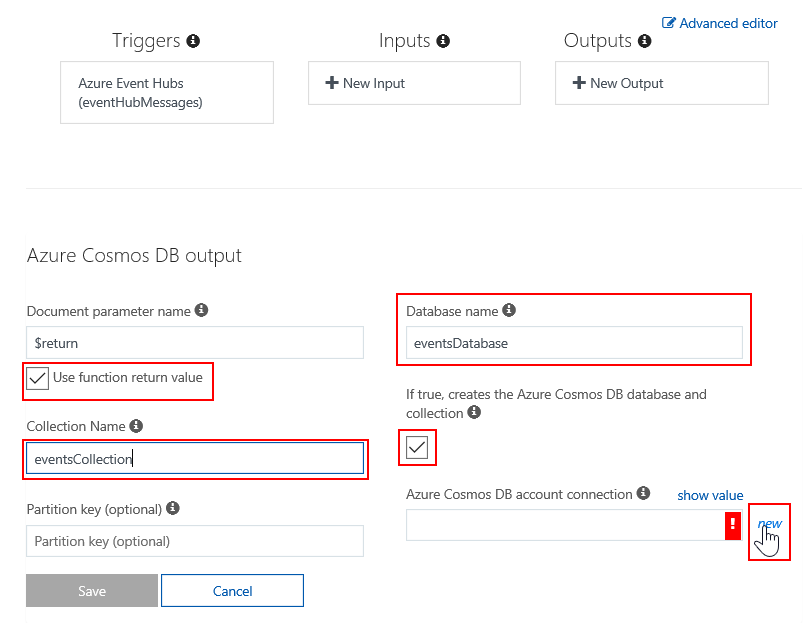
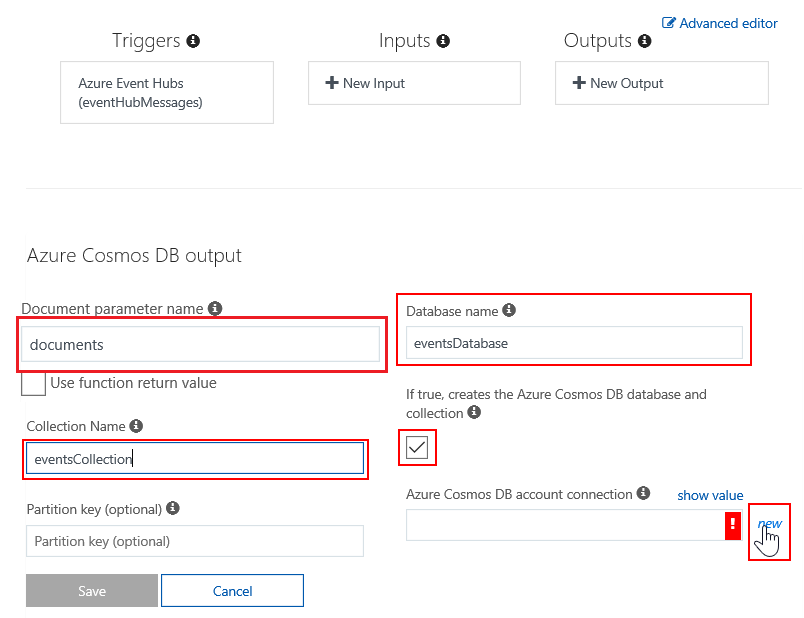
fixed csharp, updated jscript and updated pictures to be consistent with csharp code

diff --git a/4-Functions_Lab/readme.md b/4-Functions_Lab/readme.md
@@ -147,7 +147,7 @@ Now that we have an event hub let's create an instance of CosmosDB where we can 
 
     ![CosmosDB output](images/function_cosmosdb_output.png "CosmosDB Output")
 
-1. Select the "Use function return value" checkbox. Enter a database name and collection name to use and then check the create database and collection check box then click the new button next to the Cosmos DB account connection
+1. Enter a value Document parameter name, this is the object that will be posted to Cosmos DB. Enter a database name and collection name to use and then check the create database and collection check box then click the new button next to the Cosmos DB account connection
 
     ![CosmosDB output](images/function_cosmosdb_settings.png "CosmosDB Output")
 
@@ -164,35 +164,36 @@ Now that we have an event hub let's create an instance of CosmosDB where we can 
 1. Below is the code we will use to insert the events into Cosmos DB
 
     ```javascript
-        module.exports = function (context, eventHubMessages) {
-            context.log(`JavaScript eventhub trigger function called for message array ${JSON.stringify(eventHubMessages)}`);
-            var messages = [];
+    module.exports = function (context, eventHubMessages) {
+        context.log(`JavaScript eventhub trigger function called for message array ${JSON.stringify(eventHubMessages)}`);
+        var messages = [];
 
-            eventHubMessages.forEach(message => {
-                context.log(`Processed message ${message.description}`);
-                messages.push(message);
-            });
+        eventHubMessages.forEach(message => {
+            context.log(`Processed message ${message.description}`);
+            messages.push(message);
+        });
 
-            context.done(null, messages);
-        };
+        context.bindings.documents = messages;
+        context.done();
+    };
     ```
 
     ```csharp
-        #r "Newtonsoft.Json"
+    #r "Newtonsoft.Json"
 
-        using System;
-        using Newtonsoft.Json.Linq;
-        
-        public static void Run(string[] eventHubMessages, ICollector<dynamic> documents, TraceWriter log)
-        {
-            log.Info($"C# Event Hub trigger function processed a message: {eventHubMessages}");
-        
-            foreach (var eventHubMessage in eventHubMessages){
-                log.Info($"Processed message: {eventHubMessage}");
-                dynamic doc = JObject.Parse(eventHubMessage);
-                documents.Add(doc);
-            }
+    using System;
+    using Newtonsoft.Json.Linq;
+
+    public static async Task Run(string[] eventHubMessages, IAsyncCollector<dynamic> documents, TraceWriter log)
+    {
+        log.Info($"C# Event Hub trigger function processed a message: {eventHubMessages}");
+
+        foreach (var eventHubMessage in eventHubMessages){
+            log.Info($"Processed message: {eventHubMessage}");
+            dynamic doc = JObject.Parse(eventHubMessage);
+            await documents.AddAsync(doc);
         }
+    }
     ```
 
 1. Now we can start using it. Click on the function app name
@@ -290,7 +291,7 @@ Now that we have an event hub let's create an instance of CosmosDB where we can 
 
     ![CosmosDB output](images/function_eventgrid_cosmosdb_output.png "CosmosDB Output")
 
-1. Select the "Use function return value" checkbox. Enter a database name and collection name to use and then check the create database and collection check box then click the new button next to the Cosmos DB account connection. Then click "Save" and we are ready to start writing our code!
+1. Enter a database name and collection name to use and then check the create database and collection check box then click the new button next to the Cosmos DB account connection. Then click "Save" and we are ready to start writing our code!
 
     ![CosmosDB output](images/function_eventgrid_cosmosdb_settings.png "CosmosDB Output")
 
@@ -301,25 +302,28 @@ Now that we have an event hub let's create an instance of CosmosDB where we can 
 1. Below is the code we will use to insert the events into Cosmos DB
 
     ```javascript
-        module.exports = function (context, eventGridEvent) {
-            context.log(eventGridEvent.Data);
-            context.done(null, eventGridEvent.Data);
-        };
+    module.exports = function (context, eventGridEvent) {
+        context.log(typeof eventGridEvent);
+        context.log(eventGridEvent);
+
+        context.bindings.document = eventGridEvent.data
+        context.done();
+    };
     ```
 
-
     ```csharp
-        #r "Microsoft.Azure.WebJobs.Extensions.EventGrid"
-        #r "Newtonsoft.Json"
+    #r "Newtonsoft.Json"
 
-        using Newtonsoft.Json.Linq;
-        using Microsoft.Azure.WebJobs.Extensions.EventGrid;
+    using Newtonsoft.Json;
+    using Newtonsoft.Json.Linq;
 
-        public static void Run(EventGridEvent  eventGridEvent, out dynamic doc, TraceWriter log)
-        {
-            log.Info(eventGridEvent.Data.ToString());
-            doc = JObject.Parse(eventGridEvent.Data.ToString());
-        }
+    public static void Run(JObject eventGridEvent, out dynamic document, TraceWriter log)
+    {
+        log.Info(eventGridEvent.ToString(Formatting.Indented));
+        log.Info(eventGridEvent["data"].ToString());
+        
+        document = JObject.Parse(eventGridEvent["data"].ToString());
+    }
     ```
 
 1. Now we can start using it. Click on the function app name
